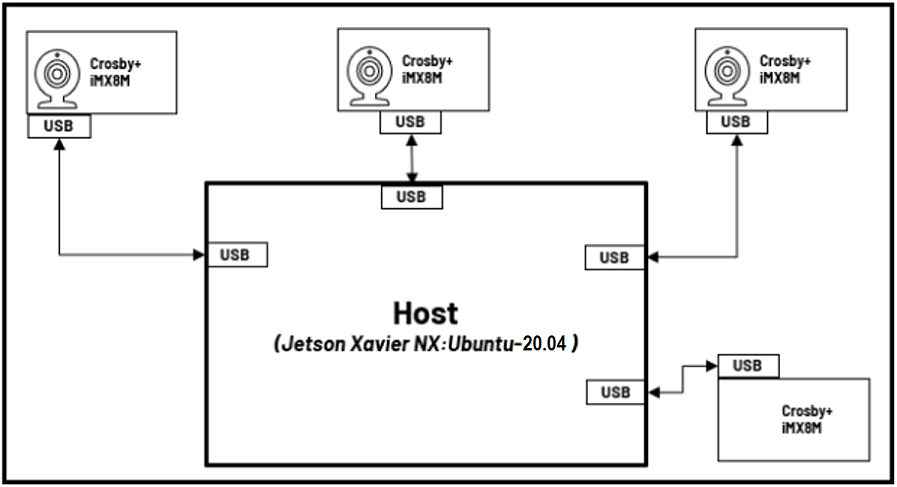
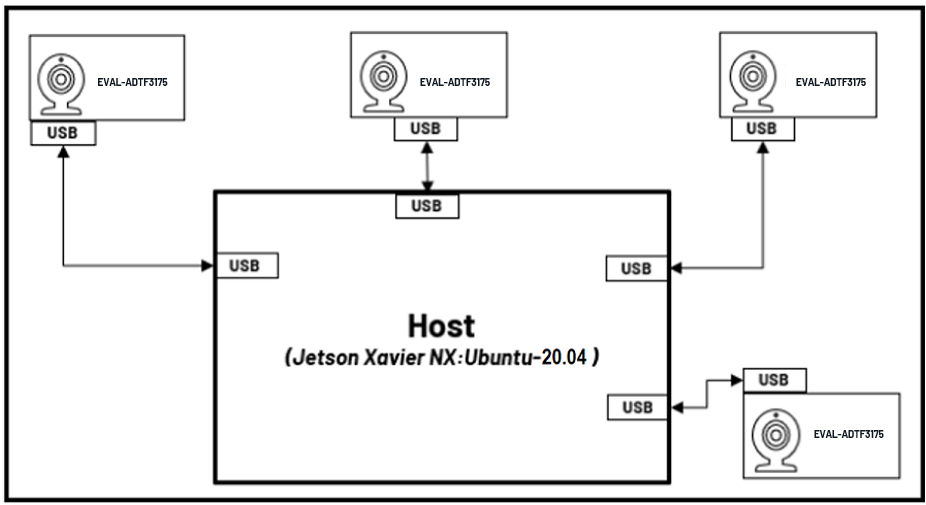
Removed reference to Crosby.

Changed region(s): [[0.0, 0.0, 0.9989, 0.9856], [0.2809, 0.616, 0.6555, 0.7392]]

diff --git a/README.md b/README.md
@@ -2,7 +2,7 @@
 
 ---
 # Overview
-The **ADI 3DToF Image Stitching** is a ROS (Robot Operating System) package for stitching depth images from multiple Time-Of-Flight sensors like ADI’s ADTF3175D ToF sensor. This node subscribes to captured Depth and IR images from multiple **ADI 3DToF ADTF31xx** nodes, stitches them to create a single expanded field of view and publishes the stitched Depth, IR and PointCloud as ROS topics. The node publishes Stitched Depth and IR Images at 2048x512 (16 bits per image) resolution @ 10FPS in realtime mode on [AAEON BOXER-8250AI](https://www.aaeon.com/en/p/ai-edge-solutions-nvidia-jetson-xavier-nx-boxer-8250ai), while stitching inputs from 4 different [EVAL-ADTF3175D Sensor Modules](https://www.analog.com/en/design-center/evaluation-hardware-and-software/evaluation-boards-kits/EVAL-ADTF3175.html#eb-overview) and giving an expanded FOV of 278 Degrees. Along with the Stitched Depth and IR frames, the Stitched Point Cloud is also published at 10FPS.
+The **ADI 3DToF Image Stitching** is a ROS (Robot Operating System) package for stitching depth images from multiple Time-Of-Flight sensors like ADI’s ADTF3175D ToF sensor. This node subscribes to captured Depth and IR images from multiple **ADI 3DToF ADTF31xx** nodes, stitches them to create a single expanded field of view and publishes the stitched Depth, IR and PointCloud as ROS topics. The node publishes Stitched Depth and IR Images at 2048x512 (16 bits per image) resolution @ 10FPS in realtime mode on [AAEON BOXER-8250AI](https://www.aaeon.com/en/p/ai-edge-solutions-nvidia-jetson-xavier-nx-boxer-8250ai), while stitching inputs from 4 different [EVAL-ADTF3175D](https://www.analog.com/en/design-center/evaluation-hardware-and-software/evaluation-boards-kits/EVAL-ADTF3175.html#eb-overview) and giving an expanded FOV of 278 Degrees. Along with the Stitched Depth and IR frames, the Stitched Point Cloud is also published at 10FPS.
 
 
 [![Humble](https://img.shields.io/badge/-humble-green?style=plastic&logo=ros)](https://docs.ros.org/en/humble/index.html) [![Ubuntu 22.04](https://img.shields.io/badge/-UBUNTU%2022.04-orange?style=plastic&logo=ubuntu&logoColor=white)](https://releases.ubuntu.com/jammy/) [![Ubuntu 20.04](https://img.shields.io/badge/-UBUNTU%2020.04-orange?style=plastic&logo=ubuntu&logoColor=white)](https://releases.ubuntu.com/focal/) [![License](https://img.shields.io/badge/License-BSD_3--Clause-purple.svg)](./LICENSE) ![ARM64](https://img.shields.io/badge/arm64-blue?style=plastic&logo=arm&logoColor=white) ![x86_64](https://img.shields.io/badge/x86__64-blue?style=plastic&logo=intel&logoColor=white) ![Nvidia Xavier NX](https://img.shields.io/badge/-Xavier--NX-green?style=plastic&logo=nvidia&logoColor=white)
@@ -15,13 +15,13 @@ The **ADI 3DToF Image Stitching** is a ROS (Robot Operating System) package for 
 # Hardware
 
 For the tested setup with GPU inference support, the following are used:
-- 4 x [EVAL-ADTF3175D Modules](https://www.analog.com/en/design-center/evaluation-hardware-and-software/evaluation-boards-kits/EVAL-ADTF3175.html#eb-overview)
+- 4 x [EVAL-ADTF3175D](https://www.analog.com/en/design-center/evaluation-hardware-and-software/evaluation-boards-kits/EVAL-ADTF3175.html#eb-overview)
 - 1 x [AAEON BOXER-8250AI](https://www.aaeon.com/en/p/ai-edge-solutions-nvidia-jetson-xavier-nx-boxer-8250ai)
 - 1 x External 12V power supply
 - 4 x Usb type-c to type-A cables - with 5gbps data speed support
 
 Minimum requirements for a test setup on host laptop/computer CPU:
-- 2 x [EVAL-ADTF3175D Modules](https://www.analog.com/en/design-center/evaluation-hardware-and-software/evaluation-boards-kits/EVAL-ADTF3175.html#eb-overview)
+- 2 x [EVAL-ADTF3175D](https://www.analog.com/en/design-center/evaluation-hardware-and-software/evaluation-boards-kits/EVAL-ADTF3175.html#eb-overview)
 - Host laptop with intel i5 or higher cpu running Ubuntu-20.04LTS or WSL2 with Ubuntu-20.04
 - 2 x USB type-c to type-A cables - with 5gbps data speed support
 - USB power hub
@@ -147,7 +147,7 @@ $ scp adi_3dtof_adtf31xx_cam1.launch analog@10.42.0.1:/home/analog/ros2_ws/adi_3
 
 ## adi_3dtof_image_stitching_node
 
-> :memo: _Note: For those with <cam_name> in the topic names, these are ideally the names assigned for EVAL-ADTF3175D camera modules. For example, if there are 2 cameras used, with the names as cam1 and cam2 ,there should be two subscribed topics for depth_image, specifically /cam1/depth_image for camra 1 and then /cam2/depth_image for camera 2._
+> :memo: _Note: For those with <cam_name> in the topic names, these are ideally the names assigned for EVAL-ADTF3175D. For example, if there are 2 cameras used, with the names as cam1 and cam2 ,there should be two subscribed topics for depth_image, specifically /cam1/depth_image for camra 1 and then /cam2/depth_image for camera 2._
 
 ### Published topics
 
@@ -230,7 +230,7 @@ Idea is, the individual sensors connected to the host computer(Jetson NX host or
 3. The stitched output is then published as ROS messages which can be viewed on the Rviz2 window.
 4. Stitched output can also be saved into a video file by enabling the "enable_video_out" parameter.
 
-To proceed with the test, first execute these following commands on four (4) different terminals (in sequence) to start image capture in the EVAL-ADTF3175D Modules:
+To proceed with the test, first execute these following commands on four (4) different terminals (in sequence) to start image capture in the EVAL-ADTF3175D:
 :memo:
 >- This is assuming that we are testing a 4-camera setup to get a 278 degrees FOV. Reduce the number of terminals accordingly for 2 or 3 camera setup.
 >- Please ensure the below mentioned launch files are available inside the launch folder for the adi_3dtof_adtf31xx code present inside the devices. If not please follow the following steps:-
@@ -243,7 +243,7 @@ To proceed with the test, first execute these following commands on four (4) dif
 |<pre>~$ ssh analog@[ip of cam1] <br>>cd ~/ros2_ws/ <br>>source /opt/ros/humble/install/setup.bash <br>>source install/setup.bash <br>>ros2 launch adi_3dtof_adtf31xx adi_3dtof_adtf31xx_cam1_launch.py | <pre>~$ ssh analog@[ip of cam2] <br>>cd ~/ros2_ws/ <br>>source /opt/ros/humble/install/setup.bash <br>>source install/setup.bash <br>>ros2 launch adi_3dtof_adtf31xx adi_3dtof_adtf31xx_cam2_launch.py | <pre>~$ ssh analog@[ip of cam3] <br>>cd ~/ros2_ws/ <br>>source /opt/ros/humble/install/setup.bash <br>>source install/setup.bash <br>>ros2 launch adi_3dtof_adtf31xx adi_3dtof_adtf31xx_cam3_launch.py | <pre>~$ ssh analog@[ip of cam4] <br>>cd ~/ros2_ws/ <br>>source /opt/ros/humble/install/setup.bash <br>>source install/setup.bash <br>>ros2 launch adi_3dtof_adtf31xx adi_3dtof_adtf31xx_cam4_launch.py |
 
 > :memo: _Notes: 
->- Its assumed that the adi_3dtof_adtf31xx nodes are already built within the EVAL-ADTF3175D Modules. It is also assumed that adi_3dtof_adtf31xx node are built in the location "~/ros2_ws/" within the sensor modules.
+>- Its assumed that the adi_3dtof_adtf31xx nodes are already built within the EVAL-ADTF3175D. It is also assumed that adi_3dtof_adtf31xx node are built in the location "~/ros2_ws/" within the sensor modules.
 >- It is assumed that the respective sensor launch files from the adi_3dtfo_image_stitching package are copied to the launch folder of adi_3dtof_adtf31xx package within the respective sensors and the input mode is changed to 0.(it is 2 by default)_
 >- The credentials to login to the devices is given below
 >   ```
